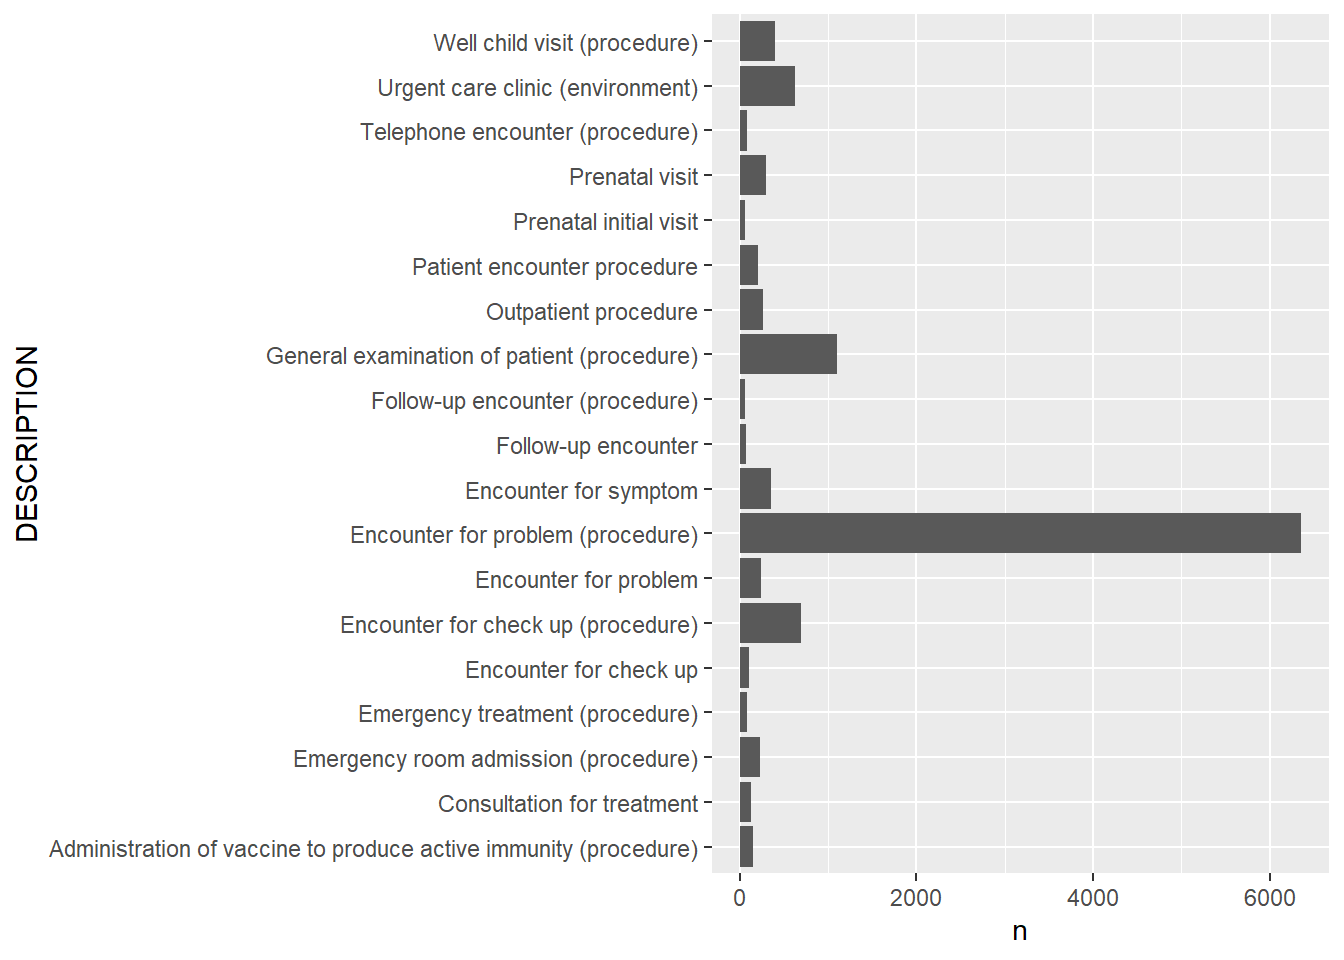
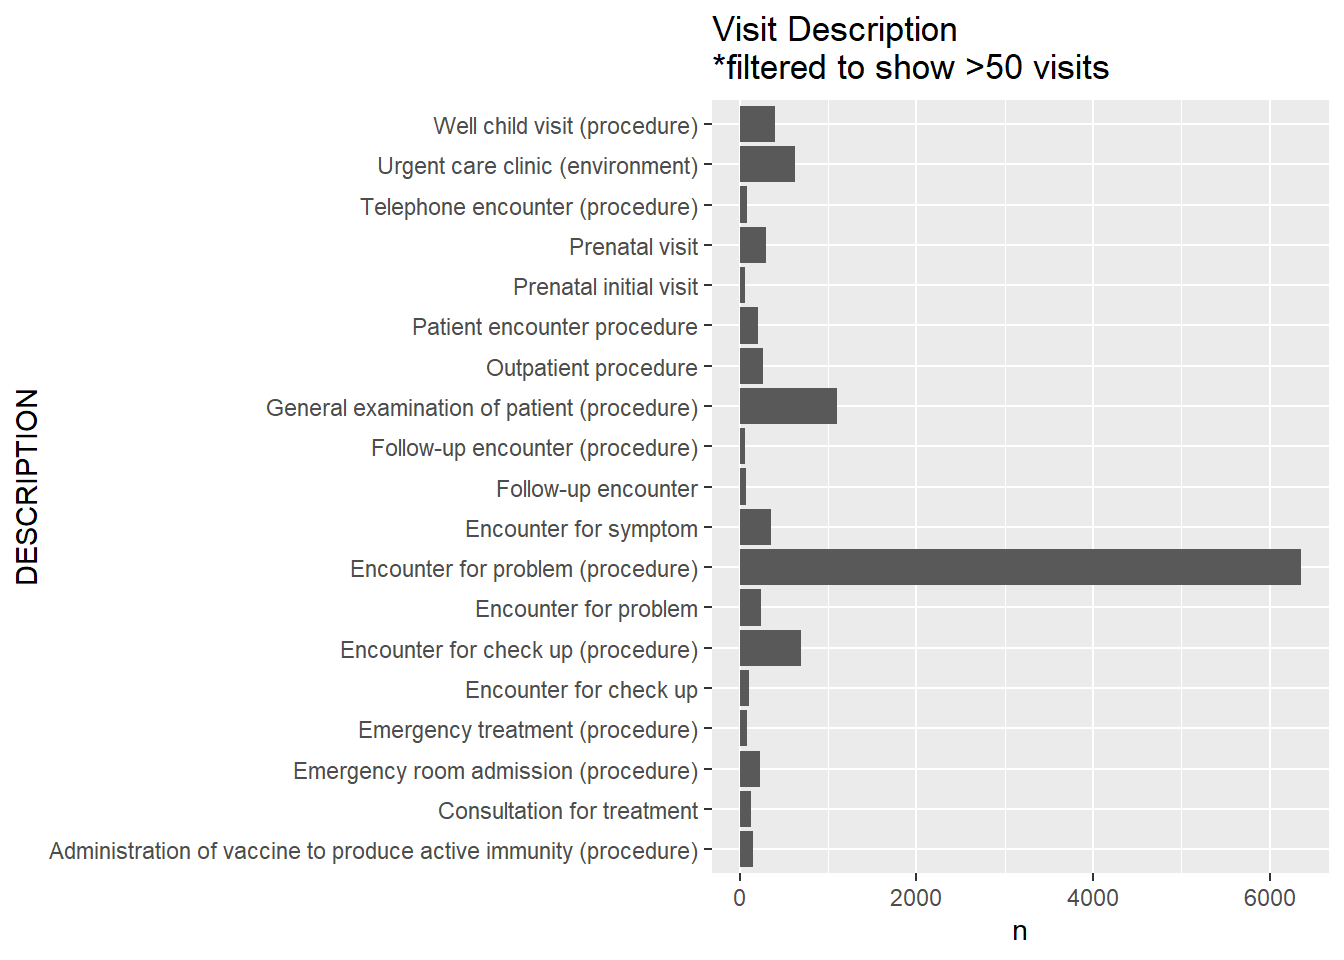
cleaning up doc, adding titles

Changed region(s): [[0.0312, 0.0, 0.9688, 0.9062], [0.0, 0.3438, 0.0312, 0.625]]

diff --git a/docs/posts/Post_One/post_1.html b/docs/posts/Post_One/post_1.html
@@ -7,7 +7,7 @@
 <meta name="viewport" content="width=device-width, initial-scale=1.0, user-scalable=yes">
 
 <meta name="author" content="Sue-Ellen Duffy">
-<meta name="dcterms.date" content="2024-04-17">
+<meta name="dcterms.date" content="2024-04-20">
 
 <title>Social_Networks_Blog_Space - The Patient Provider Relationship, A Synthetic Social Network</title>
 <style>
@@ -143,6 +143,7 @@ pre > code.sourceCode > span > a:first-child::before { text-decoration: underlin
   <div class="quarto-title-banner page-columns page-full">
     <div class="quarto-title column-body">
       <h1 class="title">The Patient Provider Relationship, A Synthetic Social Network</h1>
+            <p class="subtitle lead">Data Cleaning, Exploration, and Network Analysis</p>
                                 <div class="quarto-categories">
                 <div class="quarto-category">news</div>
               </div>
@@ -162,7 +163,7 @@ pre > code.sourceCode > span > a:first-child::before { text-decoration: underlin
       <div>
       <div class="quarto-title-meta-heading">Published</div>
       <div class="quarto-title-meta-contents">
-        <p class="date">April 17, 2024</p>
+        <p class="date">April 20, 2024</p>
       </div>
     </div>
     
@@ -180,7 +181,6 @@ pre > code.sourceCode > span > a:first-child::before { text-decoration: underlin
 
 
 
-<p>Tasks - rename the attribute dimensions for - Marital Status, Gender - fix the age code (need to subtract from DEATHDATE if one exists first) - age might be a better attribute to just add to the encounter data and create a column for AGE_AT_TIME_OF_ENCOUNTER - add titles to graphs - blocking - maybe different graph for income</p>
 <p>Data for this project were taken from Synthetic Mass, which creates Synthetic patient data from Synthea.</p>
 <p><img src="SyntheticMassLogo.png" class="img-fluid"></p>
 <p>While a whole host of datasets are available within each download, I will focus this project on three datasets: patients.csv, providers.csv, and encounters.csv.</p>
@@ -491,7 +491,7 @@ dttm (2): START, STOP
 </div>
 </div>
 <div class="cell">
-<div class="sourceCode cell-code" id="cb30"><pre class="sourceCode r code-with-copy"><code class="sourceCode r"><span id="cb30-1"><a href="#cb30-1" aria-hidden="true" tabindex="-1"></a><span class="fu">ggplot</span>(encounters, <span class="fu">aes</span>(ENCOUNTERCLASS)) <span class="sc">+</span> <span class="fu">geom_bar</span>() <span class="sc">+</span> <span class="fu">coord_flip</span>()</span></code><button title="Copy to Clipboard" class="code-copy-button"><i class="bi"></i></button></pre></div>
+<div class="sourceCode cell-code" id="cb30"><pre class="sourceCode r code-with-copy"><code class="sourceCode r"><span id="cb30-1"><a href="#cb30-1" aria-hidden="true" tabindex="-1"></a><span class="fu">ggplot</span>(encounters, <span class="fu">aes</span>(ENCOUNTERCLASS)) <span class="sc">+</span> <span class="fu">geom_bar</span>() <span class="sc">+</span> <span class="fu">coord_flip</span>()<span class="sc">+</span> <span class="fu">labs</span>(<span class="at">title =</span> <span class="st">"Type of Visit"</span>)</span></code><button title="Copy to Clipboard" class="code-copy-button"><i class="bi"></i></button></pre></div>
 <div class="cell-output-display">
 <p><img src="post_1_files/figure-html/unnamed-chunk-11-1.png" class="img-fluid" width="672"></p>
 </div>
@@ -500,7 +500,7 @@ dttm (2): START, STOP
 <span id="cb31-3"><a href="#cb31-3" aria-hidden="true" tabindex="-1"></a>         <span class="fu">filter</span>(n <span class="sc">&gt;</span> <span class="dv">50</span>),  <span class="co"># Filter for counts higher than 10</span></span>
 <span id="cb31-4"><a href="#cb31-4" aria-hidden="true" tabindex="-1"></a>       <span class="fu">aes</span>(<span class="at">x =</span> DESCRIPTION, <span class="at">y =</span> n)) <span class="sc">+</span></span>
 <span id="cb31-5"><a href="#cb31-5" aria-hidden="true" tabindex="-1"></a>  <span class="fu">geom_bar</span>(<span class="at">stat =</span> <span class="st">"identity"</span>) <span class="sc">+</span></span>
-<span id="cb31-6"><a href="#cb31-6" aria-hidden="true" tabindex="-1"></a>  <span class="fu">coord_flip</span>()</span></code><button title="Copy to Clipboard" class="code-copy-button"><i class="bi"></i></button></pre></div>
+<span id="cb31-6"><a href="#cb31-6" aria-hidden="true" tabindex="-1"></a>  <span class="fu">coord_flip</span>() <span class="sc">+</span> <span class="fu">labs</span>(<span class="at">title =</span> <span class="fu">paste</span>(<span class="st">"Visit Description"</span>, <span class="st">"</span><span class="sc">\n</span><span class="st">*filtered to show &gt;50 visits"</span>))</span></code><button title="Copy to Clipboard" class="code-copy-button"><i class="bi"></i></button></pre></div>
 <div class="cell-output-display">
 <p><img src="post_1_files/figure-html/unnamed-chunk-11-2.png" class="img-fluid" width="672"></p>
 </div>
@@ -509,7 +509,7 @@ dttm (2): START, STOP
 <span id="cb32-3"><a href="#cb32-3" aria-hidden="true" tabindex="-1"></a>         <span class="fu">filter</span>(n <span class="sc">&gt;</span> <span class="dv">50</span>),  <span class="co"># Filter for counts higher than 10</span></span>
 <span id="cb32-4"><a href="#cb32-4" aria-hidden="true" tabindex="-1"></a>       <span class="fu">aes</span>(<span class="at">x =</span> REASONDESCRIPTION, <span class="at">y =</span> n)) <span class="sc">+</span></span>
 <span id="cb32-5"><a href="#cb32-5" aria-hidden="true" tabindex="-1"></a>  <span class="fu">geom_bar</span>(<span class="at">stat =</span> <span class="st">"identity"</span>) <span class="sc">+</span></span>
-<span id="cb32-6"><a href="#cb32-6" aria-hidden="true" tabindex="-1"></a>  <span class="fu">coord_flip</span>()</span></code><button title="Copy to Clipboard" class="code-copy-button"><i class="bi"></i></button></pre></div>
+<span id="cb32-6"><a href="#cb32-6" aria-hidden="true" tabindex="-1"></a>  <span class="fu">coord_flip</span>() <span class="sc">+</span> <span class="fu">labs</span>(<span class="at">title =</span> <span class="fu">paste</span>(<span class="st">"Reason Patient Visited Provider"</span>, <span class="st">"</span><span class="sc">\n</span><span class="st">*filtered to show &gt;50 visits"</span>))</span></code><button title="Copy to Clipboard" class="code-copy-button"><i class="bi"></i></button></pre></div>
 <div class="cell-output-display">
 <p><img src="post_1_files/figure-html/unnamed-chunk-11-3.png" class="img-fluid" width="672"></p>
 </div>
@@ -1189,7 +1189,7 @@ Network edgelist matrix:
 <span id="cb50-24"><a href="#cb50-24" aria-hidden="true" tabindex="-1"></a></span>
 <span id="cb50-25"><a href="#cb50-25" aria-hidden="true" tabindex="-1"></a><span class="co"># Define legend for edge colors</span></span>
 <span id="cb50-26"><a href="#cb50-26" aria-hidden="true" tabindex="-1"></a><span class="fu">legend</span>(<span class="st">"topleft"</span>,</span>
-<span id="cb50-27"><a href="#cb50-27" aria-hidden="true" tabindex="-1"></a>       <span class="at">legend =</span> <span class="fu">c</span>(<span class="st">"0-5"</span>, <span class="st">"6-20"</span>, <span class="st">"21+"</span>),  <span class="co"># You can customize these labels</span></span>
+<span id="cb50-27"><a href="#cb50-27" aria-hidden="true" tabindex="-1"></a>       <span class="at">legend =</span> <span class="fu">c</span>(<span class="st">"1-4"</span>, <span class="st">"5-19"</span>, <span class="st">"20+"</span>),  <span class="co"># You can customize these labels</span></span>
 <span id="cb50-28"><a href="#cb50-28" aria-hidden="true" tabindex="-1"></a>       <span class="at">col =</span> <span class="fu">c</span>(<span class="st">"yellow"</span>, <span class="st">"blue"</span>, <span class="st">"red"</span>),  <span class="co"># Line colors corresponding to edge colors</span></span>
 <span id="cb50-29"><a href="#cb50-29" aria-hidden="true" tabindex="-1"></a>       <span class="at">lwd =</span> <span class="dv">2</span>,                            <span class="co"># Line width</span></span>
 <span id="cb50-30"><a href="#cb50-30" aria-hidden="true" tabindex="-1"></a>       <span class="at">title =</span> <span class="st">"Edges: # of Visits"</span>)              <span class="co"># Legend title</span></span></code><button title="Copy to Clipboard" class="code-copy-button"><i class="bi"></i></button></pre></div>
@@ -1197,6 +1197,14 @@ Network edgelist matrix:
 <p><img src="post_1_files/figure-html/unnamed-chunk-19-1.png" class="img-fluid" width="672"></p>
 </div>
 </div>
+<p>Next Steps:</p>
+<ul>
+<li><p>rename the attribute dimensions for - Marital Status, Gender</p></li>
+<li><p>fix the age code (need to subtract from DEATHDATE if one exists first)</p></li>
+<li><p>age might be a better attribute to just add to the encounter data and create a column for AGE_AT_TIME_OF_ENCOUNTER</p></li>
+<li><p>blocking</p></li>
+<li><p>maybe different graph for income</p></li>
+</ul>
 
 
 </section>

diff --git a/docs/index.html b/docs/index.html
@@ -71,9 +71,9 @@ ul.task-list li input[type="checkbox"] {
     }
 
     const options = {
-      valueNames: ['listing-date','listing-title','listing-author','listing-image','listing-description','listing-categories',{ data: ['index'] },{ data: ['categories'] },{ data: ['listing-date-sort'] },{ data: ['listing-file-modified-sort'] }],
+      valueNames: ['listing-date','listing-title','listing-author','listing-subtitle','listing-image','listing-description','listing-categories',{ data: ['index'] },{ data: ['categories'] },{ data: ['listing-date-sort'] },{ data: ['listing-file-modified-sort'] }],
       
-      searchColumns: ["listing-date","listing-title","listing-author","listing-image","listing-description","listing-categories"],
+      searchColumns: ["listing-date","listing-title","listing-author","listing-subtitle","listing-image","listing-description","listing-categories"],
     };
 
     window['quarto-listings'] = window['quarto-listings'] || {};
@@ -170,7 +170,7 @@ ul.task-list li input[type="checkbox"] {
 
 <div class="quarto-listing quarto-listing-container-default" id="listing-listing">
 <div class="list quarto-listing-default">
-<div class="quarto-post image-right" data-index="0" data-categories="news" data-listing-date-sort="1713326400000" data-listing-file-modified-sort="1713646865965" data-listing-date-modified-sort="NaN" data-listing-reading-time-sort="8">
+<div class="quarto-post image-right" data-index="0" data-categories="news" data-listing-date-sort="1713585600000" data-listing-file-modified-sort="1713648178084" data-listing-date-modified-sort="NaN" data-listing-reading-time-sort="8">
 <div class="thumbnail">
 <p><a href="./posts/Post_One/post_1.html"> <p class="card-img-top"><img src="posts\Post_One\SyntheticMassLogo.png"  class="thumbnail-image card-img"/></p> </a></p>
 </div>
@@ -180,7 +180,7 @@ ul.task-list li input[type="checkbox"] {
 The Patient Provider Relationship, A Synthetic Social Network
 </h3>
 <div class="listing-subtitle">
-
+Data Cleaning, Exploration, and Network Analysis
 </div>
 </a>
 <div class="listing-categories">
@@ -190,14 +190,14 @@ news
 </div>
 <a href="./posts/Post_One/post_1.html">
 <div class="listing-description">
-Tasks - rename the attribute dimensions for - Marital Status, Gender - fix the age code (need to subtract from DEATHDATE if one exists first) - age…
+Data for this project were taken from Synthetic Mass, which creates Synthetic patient data from Synthea.
 </div>
 </a>
 </div>
 <div class="metadata">
 <a href="./posts/Post_One/post_1.html">
 <div class="listing-date">
-Apr 17, 2024
+Apr 20, 2024
 </div>
 <div class="listing-author">
 Sue-Ellen Duffy
